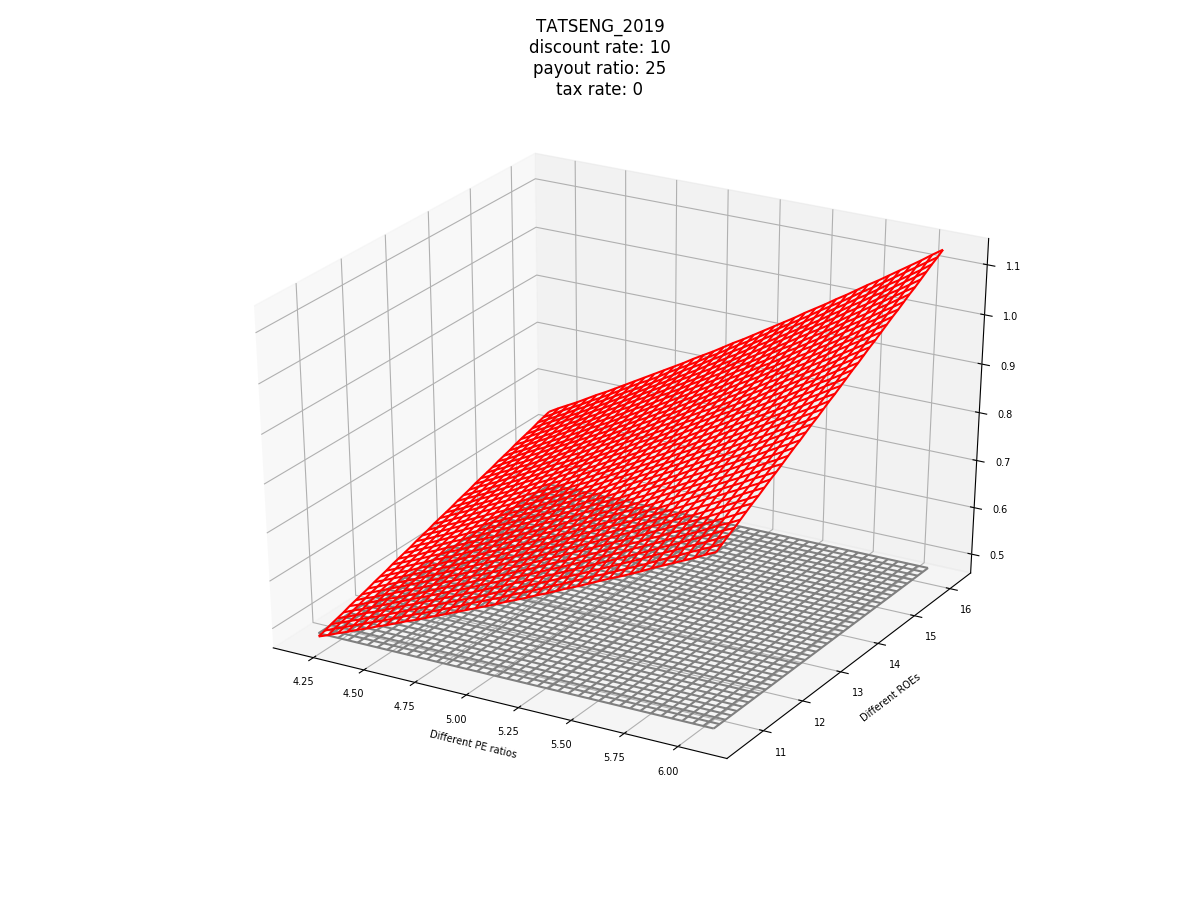
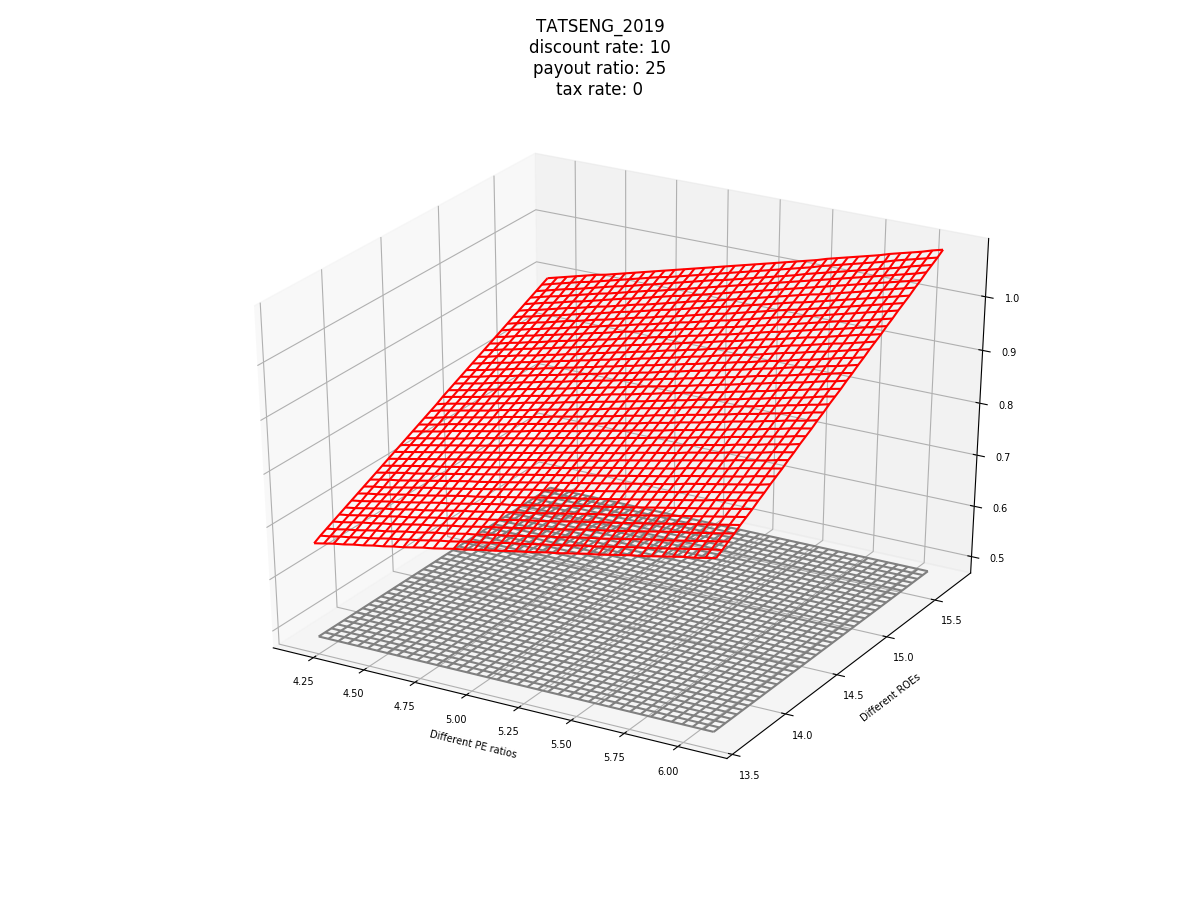
incl bollinger bands
added bollinger bands.
still buggy when initializing

diff --git a/main_functions_wrapper.py b/main_functions_wrapper.py
@@ -11,6 +11,7 @@ import fom_estimation as analyser
 import fom_projection as predictor
 import extract_stock_data as extractor
 import numpy as np
+import math_tools as bollinger
 
 def analyze_data(directory='', filename='', title='test company',plot=True):
    '''
@@ -28,6 +29,8 @@ def analyze_data(directory='', filename='', title='test company',plot=True):
    else:
       data = extractor.read_csv2data(directory, filename)
    
+   bollinger_data = bollinger.generate_bollinger_roe(data_dict=data,std_mult=3,num_periods=5)
+   
    # Show the min, max, avg, std of the PE, PB, ROE, payout_ratio
    print('Showing stats')
    stock_stats = analyser.analyze_all_data(data,showstats=True)
@@ -37,7 +40,9 @@ def analyze_data(directory='', filename='', title='test company',plot=True):
    stringtoprint = stringtoprint + 'Historical PE mean: '+str(round(hist_pe,2))
    # Plot the old data, save it
    if plot:
-      plotter.plot_full_dataset(title=title+' data', directory=directory, data=data,annotate_string=stringtoprint)
+      plotter.plot_full_dataset(title=title+' data', directory=directory, data=data,
+                                annotate_string=stringtoprint,
+                                bollingerdata=bollinger_data)
    return [data, stock_stats]
    
 def modify_stock_stats(stock_stats, est_roe=None, est_pe=None, est_payout_ratio=None):
@@ -59,7 +64,7 @@ def modify_stock_stats(stock_stats, est_roe=None, est_pe=None, est_payout_ratio=
       stock_stats['payout_ratio_avg'] = est_payout_ratio
    return stock_stats
 
-def project_data(data, stock_stats, projectionyear=2019, years2project=5, title='test company',
+def project_data_by_roe(data, stock_stats, projectionyear=2019, years2project=5, title='test company',
                  discount_rate=5,taxrate=0,directory='',plot=True):
    '''
    A wrapper function to do prediction of a stock N number of years later
@@ -92,12 +97,17 @@ def sweep_parameters_roe_and_pe(discount_rate=5, payout_ratio=0,
                                 projectionyear=2019,
                                 taxrate=0,
                                 directory='', filename='', 
-                                title='test company'
+                                title='test company',
+                                bollinger_compensation=False
                                 ):
    '''
-   sweeps ROE and PE across a range of +- 1sd
+   sweeps ROE and PE across a range of +- 1sd across all time
    plug in ranges into the projection function
    Discount rate and payout ratios are parameters
+   
+   bollinger_compensation is a boolean. 
+   If false, use ROE across all time to make estimates
+   If true, use bollinger bands to estimate future ROEs
    '''
    # read ROE and PE stats first
    [data, stock_stats] = analyze_data(directory=directory, filename=filename, title=title, plot=False)
@@ -105,6 +115,14 @@ def sweep_parameters_roe_and_pe(discount_rate=5, payout_ratio=0,
    pe_ratio_std = stock_stats['pe_ratio_std']
    roe_avg = stock_stats['roe_avg']
    roe_std = stock_stats['roe_std']
+   
+   if bollinger_compensation:
+      bollinger_data = bollinger.generate_bollinger_roe(data_dict=data,std_mult=1,num_periods=5)
+      bollinger_top = bollinger_data['bollinger_top']
+      bollinger_mid = bollinger_data['bollinger_mid']
+      roe_avg = bollinger_mid[-1]
+      roe_std = bollinger_top[-1] - roe_avg
+      
    
    # generate the ROE and PE ranges
    pe_steps = np.zeros(shape=(1,2*resolution))
@@ -125,7 +143,7 @@ def sweep_parameters_roe_and_pe(discount_rate=5, payout_ratio=0,
          test_pe = pe_steps[0][i]
          test_roe = roe_steps[0][j]
          new_stock_stats = modify_stock_stats(stock_stats, est_roe=test_roe, est_pe=test_pe, est_payout_ratio=payout_ratio)
-         presentvalue = project_data(data=data, stock_stats=new_stock_stats, 
+         presentvalue = project_data_by_roe(data=data, stock_stats=new_stock_stats, 
                                      projectionyear=projectionyear, 
                                      years2project=5, title='test company',
                                      discount_rate=5,taxrate=taxrate,

diff --git a/math_tools.py b/math_tools.py
@@ -1,0 +1,53 @@
+# -*- coding: utf-8 -*-
+"""
+Created on Sat Aug 17 00:29:28 2019
+
+@author: Yong Keong
+"""
+import numpy as np
+
+def generate_bollinger_bands(datalist, std_multiplier, num_periods):
+   '''
+   Takes a list of data. Spits out the bollinger bands as lists.
+   Args: 
+      datalist: list of time series data points
+      std_multiplier: a number to multiply the std by to obtain the width
+      num_periods: a number to calculate the moving averages over
+   Returns: a dictionary
+   {'bollinger_top': list of data points for top bollinger band
+    'bollinger_mid': list of data points for mid bollinger band
+    'bollinger_bot': list of data points for bot bollinger band
+   }
+   '''
+   band_top = []
+   band_mid = []
+   band_bot = []
+   
+   datalen = len(datalist)
+   index = 0
+   # Padding with Nones
+   while index < num_periods-1:
+      band_top.append(None)
+      band_mid.append(None)
+      band_bot.append(None)
+      index = index + 1
+      
+   while index < datalen:
+      period_mean = sum (datalist[index-num_periods:index+1]) / num_periods
+      band_mid.append(period_mean)
+      
+      period_std = 0
+      for each in datalist[index-num_periods:index]:
+         period_std = period_std + (each - period_mean)**2
+      period_std = np.sqrt(period_std) / num_periods
+      band_top.append( period_mean + std_multiplier * period_std )
+      band_bot.append( period_mean - std_multiplier * period_std )
+      index = index + 1
+      
+   return {'bollinger_top': band_top,
+           'bollinger_mid': band_mid,
+           'bollinger_bot': band_bot}
+
+def generate_bollinger_roe(data_dict, std_mult=3, num_periods=5):
+   hist_roe = data_dict ['roe']   
+   return generate_bollinger_bands(hist_roe, std_multiplier=std_mult, num_periods=num_periods)

diff --git a/data_plotter.py b/data_plotter.py
@@ -33,7 +33,9 @@ def plot_data(year_arr, data, title, folder):
     #plt.savefig('C:/Users/Yong Keong/Documents/GitHub/Stock_Screener/'+folder+title+'.png')
     plt.savefig(folder+title+'.png')
     
-def plot_full_dataset(data, title='', directory='', projectionyear=0, annotate_string=None):
+def plot_full_dataset(data, title='', directory='', 
+                      projectionyear=0, annotate_string=None,
+                      bollingerdata = None):
    '''
    Function to plot out the whole dictionary of stats
    Arguments:
@@ -42,6 +44,7 @@ def plot_full_dataset(data, title='', directory='', projectionyear=0, annotate_s
       directory: folder to save the plots in
       projectionyear: where to start shading from. if 0, dont shade
       annotate_data: for plugging in the dictionary of roe, pe
+      bollingerdata: for plotting bollinger bands. If None, do nothing
    '''
    # define place to store plots
    plot_directory = directory + 'generated_plots/'
@@ -77,6 +80,13 @@ def plot_full_dataset(data, title='', directory='', projectionyear=0, annotate_s
    plt.title('Blue: Payout ratio, red: ROE')
    plt.plot(year, payout_ratio, color='blue')
    plt.plot(year, roe, color='red')
+   if bollingerdata is not None:
+      bollinger_roe_top = bollingerdata['bollinger_top']
+      bollinger_roe_mid = bollingerdata['bollinger_mid']
+      bollinger_roe_bot = bollingerdata['bollinger_bot']
+      plt.plot(year,bollinger_roe_top,'--',color='red')
+      plt.plot(year,bollinger_roe_mid,'--',color='red')
+      plt.plot(year,bollinger_roe_bot,'--',color='red')
    
    plot3 = plt.subplot(2,3,3)
    plt.title('Shares')

diff --git a/stock_screener.py b/stock_screener.py
@@ -12,10 +12,10 @@ estimated_roe = 11
 estimated_pe = 4
 estimated_payout_ratio = 25
 dcf_rate = 10
-div_taxrate = 0
-currentprice = 0.48
+div_taxrate = 30
+currentprice = 178
 years2project = 10
-sampletitle = 'TATSENG_2019'
+sampletitle = 'VISA_2019'
 filename = sampletitle+'_condensed.csv'
 directory = 'sample_data/'
 '''
@@ -26,6 +26,7 @@ directory = 'sample_data/'
 '''
 plot_1_prediction = True
 plot_sweeps = True
+bollinger_compensation = True
 '''
 =========END of plot parameters=========
 '''
@@ -41,7 +42,7 @@ if __name__ == "__main__":
                          est_payout_ratio=estimated_payout_ratio)
       predictionyear = data['year'][-1] + 1
 
-      main.project_data(data=data, 
+      main.project_data_by_roe(data=data, 
                    stock_stats=stats,
                    projectionyear=predictionyear,
                    years2project=years2project,
@@ -58,6 +59,7 @@ if __name__ == "__main__":
                                        filename=filename, 
                                        title=sampletitle,
                                        resolution=sweepresolution, 
+                                       bollinger_compensation=bollinger_compensation,
                                        projectionyear=predictionyear,
                                        taxrate=div_taxrate)
       

diff --git a/temp.py b/temp.py
@@ -5,21 +5,12 @@ Created on Mon Jul 22 20:22:37 2019
 @author: Yong Keong
 """
 
-import pandas as pd
-import bs4 
-from selenium import webdriver 
+import matplotlib.pyplot as plt
+import numpy as np
+import generate_test_data as tester
 
-url = 'https://www.morningstar.com/stocks/xnas/ba/quote.html'
 
-browser = webdriver.Chrome()
-browser.get(url)
-
-html = browser.page_source
-
-soup = bs4.BeautifulSoup(html,'html.parser')
-
-price = soup.find('div', {'id':'message-box-price'})
-price2 = price.text.strip()
-print(price2)
-
-browser.close()
+roelist = data['roe']
+roelist
+roe_bands = math_tools.generate_bollinger_bands(roelist,1,5)
+roe_bands['bollinger_mid']
